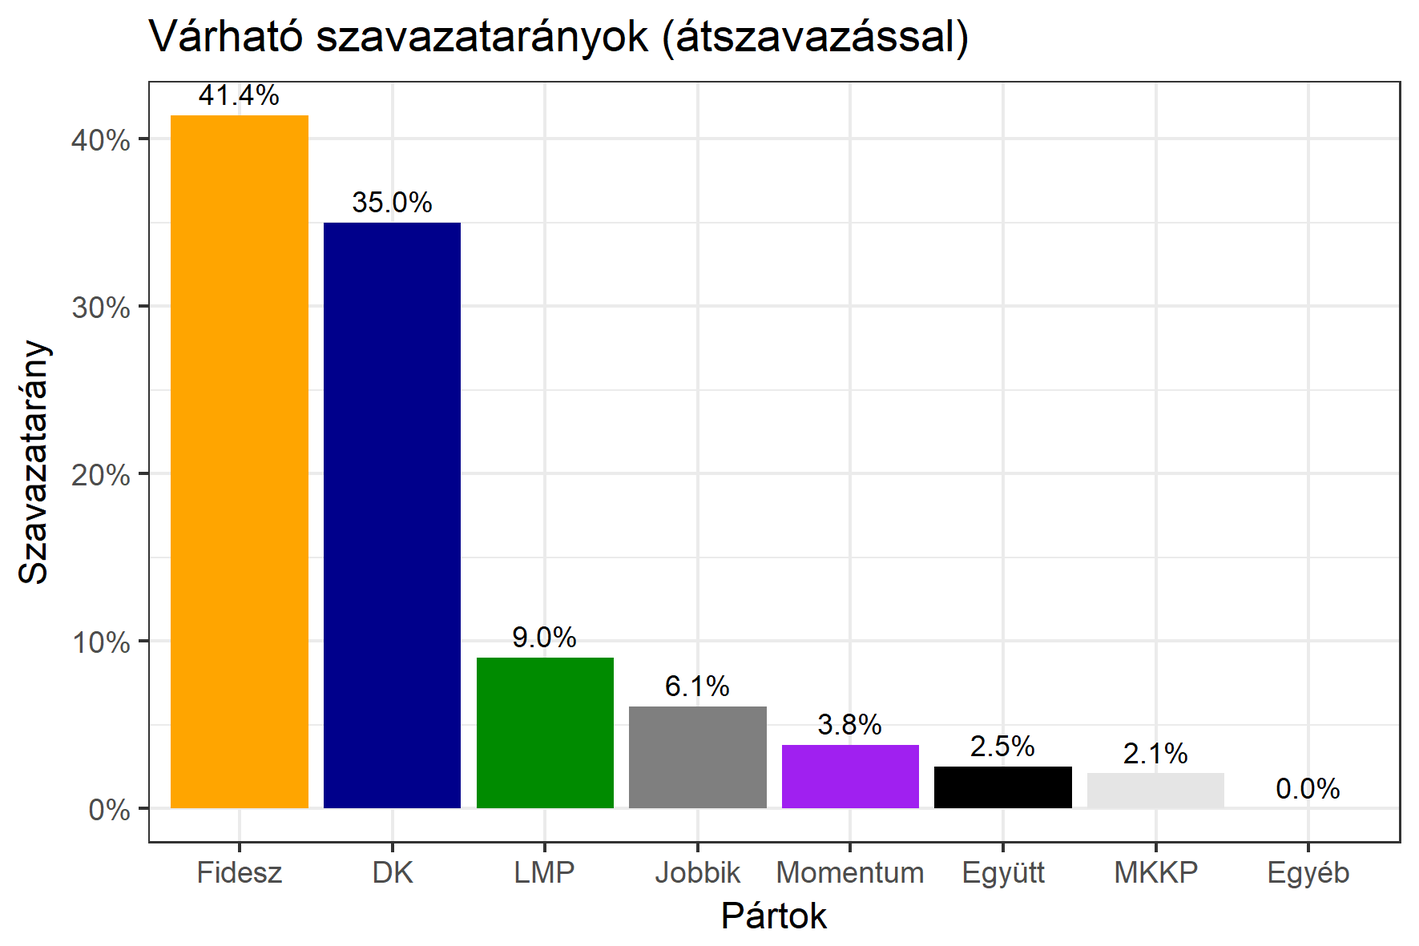
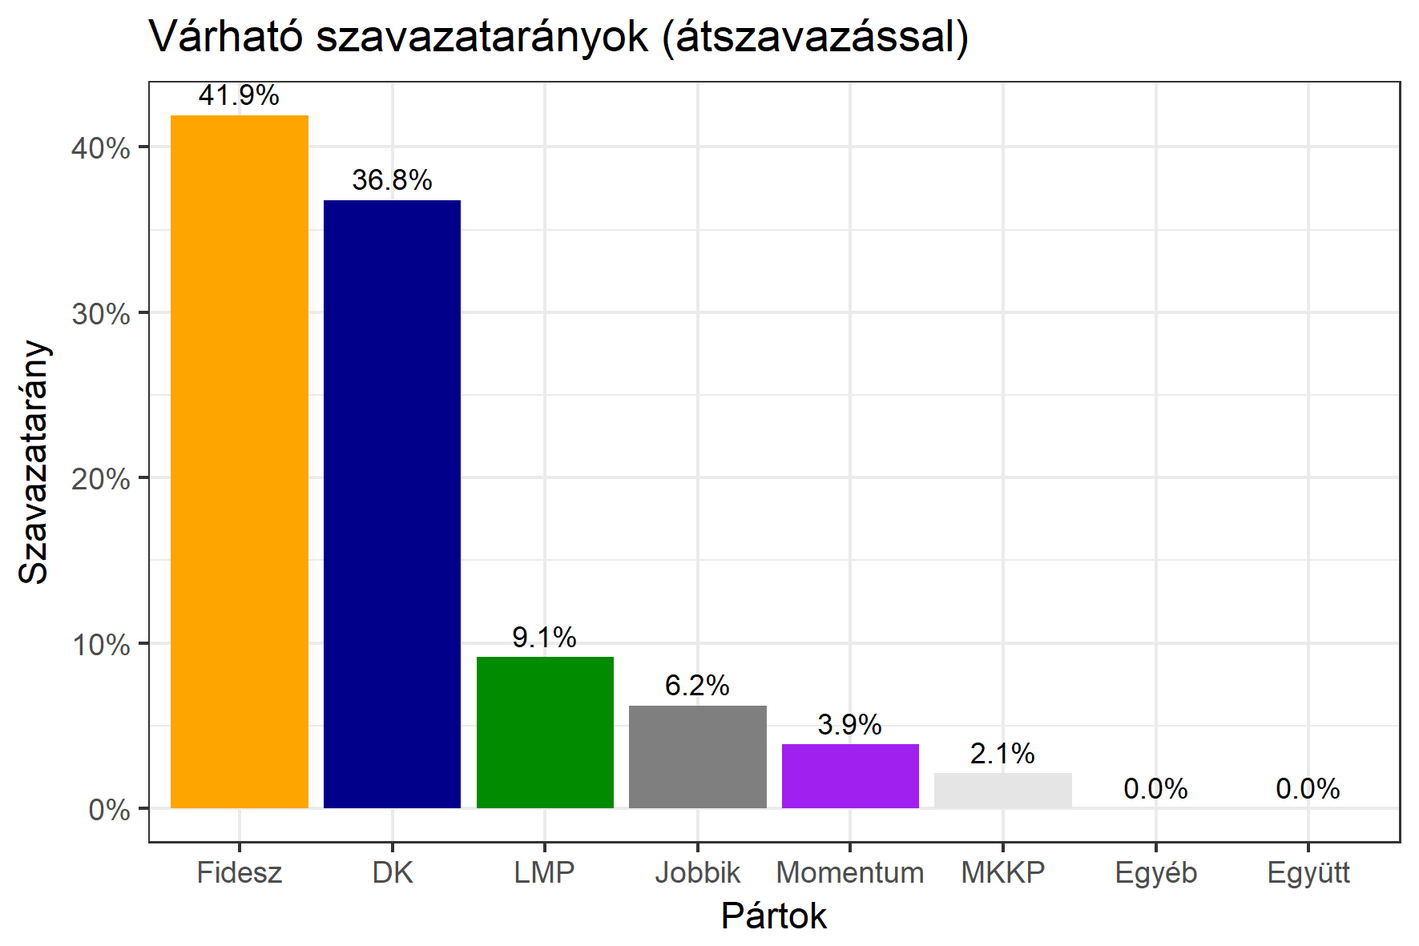
apr 04 visszalepesek

diff --git a/bp18.md b/bp18.md
@@ -27,28 +27,24 @@ permalink: /bp18
               <tbody>
              <tr>
                   <td>Németh Zsolt - Fidesz-KDNP <img src="images/fideszkdnp_logo.png" style="width:55px;height:30px;"></td>
-				   <td id="id_fidesz">36.4% &emsp; <span id="id_fidesz2">(37.5%)</span></td>
+				   <td id="id_fidesz">38.1% &emsp; <span id="id_fidesz2">(38.8%)</span></td>
 			</tr>
-			<tr><td>Dr. Staudt Gábor - Jobbik <img src="images/jobbik_logo.png" style="width:23px;height:30px;"></td> <td id="id_jobbik">12.1% &emsp; <span id="id_jobbik2">(9.4%)</span></td></tr>
+			<tr><td>Dr. Staudt Gábor - Jobbik <img src="images/jobbik_logo.png" style="width:23px;height:30px;"></td> <td id="id_jobbik">12.7% &emsp; <span id="id_jobbik2">(9.8%)</span></td></tr>
 <tr>
                   <td>Molnár Gyula - MSZP-Párbeszéd <img src="images/mszpparbeszed_logo.png" style="width:60px;height:30px;"></td>
-				   <td id="id_baloldal">25.2% &emsp; <span id="id_baloldal2">(35.5%)</span></td>
+				   <td id="id_baloldal">26.4% &emsp; <span id="id_baloldal2">(37.7%)</span></td>
 			</tr>
 			<tr>
                   <td>Pitz Dániel - LMP <img src="images/lmp_logo.png" style="width:52px;height:30px;"></td>
-				   <td id="id_lmp">10.1% &emsp; <span id="id_lmp2">(6.8%)</span></td>
+				   <td id="id_lmp">10.6% &emsp; <span id="id_lmp2">(7.0%)</span></td>
 			</tr>
 			<tr>
 				  <td>Orosz Anna - Momentum <img src="images/momentum_logo.png" style="width:44px;height:30px;"></td>
-				   <td id="id_momentum">7.2% &emsp; <span id="id_momentum2">(4.8%)</span></td>
-			</tr>
-<tr>
-<td><strong>VISSZALÉPETT AZ MSZP-PÁRBESZÉD JAVÁRA</strong> -  Együtt <img src="images/egyutt_logo2.png" style="width:71px;height:30px;"></td>
- <td id="id_egyutt">6.9% &emsp; <span id="id_egyutt2">(4.3%)</span></td>
-</tr>              
+				   <td id="id_momentum">7.6% &emsp; <span id="id_momentum2">(5.0%)</span></td>
+			</tr>              
 <tr>
 <td>Hotz Antal - MKKP <img src="images/mkkp_logo.png" style="width:49px;height:30px;"></td>
- <td id="id_mkkp">2.1% &emsp; <span id="id_mkkp2">(1.7%)</span></td>
+ <td id="id_mkkp">2.2% &emsp; <span id="id_mkkp2">(1.8%)</span></td>
 </tr>  
               </tbody>
             </table><h5>Várható győztes: <span id="gyoztes">Fidesz</span><span id="esely"></span><span></span></h5>

diff --git a/va1.md b/va1.md
@@ -26,30 +26,25 @@ permalink: /va1
               <tbody>
              <tr>
                   <td>dr. Hende Csaba - Fidesz-KDNP <img src="images/fideszkdnp_logo.png" style="width:55px;height:30px;"></td>
-				   <td id="id_fidesz">43.8% &emsp; <span id="id_fidesz2">(43.7%)</span></td>
+				   <td id="id_fidesz">42.6% &emsp; <span id="id_fidesz2">(43.7%)</span></td>
 			</tr>
-			<tr><td>Balassa Péter - Jobbik <img src="images/jobbik_logo.png" style="width:23px;height:30px;"></td> <td id="id_jobbik">15.2% &emsp; <span id="id_jobbik2">(15.4%)</span></td></tr>
+			<tr><td>Balassa Péter - Jobbik <img src="images/jobbik_logo.png" style="width:23px;height:30px;"></td> <td id="id_jobbik">16.0% &emsp; <span id="id_jobbik2">(15.4%)</span></td></tr>
 <tr>
                   <td>dr. Nemény András - MSZP-Párbeszéd <img src="images/mszpparbeszed_logo.png" style="width:60px;height:30px;"></td>
-				   <td id="id_baloldal">17.7% &emsp; <span id="id_baloldal2">(24.9%)</span></td>
+				   <td id="id_baloldal">22.0% &emsp; <span id="id_baloldal2">(29.2%)</span></td>
 			</tr>
 			<tr>
                   <td>Németh Ákos - LMP <img src="images/lmp_logo.png" style="width:52px;height:30px;"></td>
-				   <td id="id_lmp">9.5% &emsp; <span id="id_lmp2">(6.8%)</span></td>
+				   <td id="id_lmp">10.2% &emsp; <span id="id_lmp2">(6.8%)</span></td>
 			</tr>
 			<tr>
 				  <td>Falka Péter - Momentum <img src="images/momentum_logo.png" style="width:44px;height:30px;"></td>
-				   <td id="id_momentum">4.7% &emsp; <span id="id_momentum2">(3.0%)</span></td>
+				   <td id="id_momentum">4.6% &emsp; <span id="id_momentum2">(3.0%)</span></td>
 			</tr>
-          
 <tr>
 <td>Viszlayné Pavelkovits Petra - MKKP <img src="images/mkkp_logo.png" style="width:49px;height:30px;"></td>
  <td id="id_mkkp">2.2% &emsp; <span id="id_mkkp2">(1.8%)</span></td>
-</tr>
-<tr>
-				  <td><strong>VISSZALÉPETT az MSZP-PÁRBESZÉD JAVÁRA</strong> - független</td>
-				  <td id="egyeb2">4.3% &emsp; (4.3%)</td>
-			</tr>      
+</tr>    
               </tbody>
             </table><h5>Várható győztes: <span id="gyoztes">Fidesz</span><span id="esely"></span><span></span></h5>
 			

diff --git a/bp10.md b/bp10.md
@@ -27,25 +27,22 @@ permalink: /bp10
               <tbody>
              <tr>
                   <td>Menczer Erzsébet - Fidesz-KDNP <img src="images/fideszkdnp_logo.png" style="width:55px;height:30px;"></td>
-				   <td id="id_fidesz">28.8% &emsp; <span id="id_fidesz2">(30.1%)</span></td>
+				   <td id="id_fidesz">30.1% &emsp; <span id="id_fidesz2">(31.2%)</span></td>
 			</tr>
-			<tr><td>Zsiga-Kárpát Dániel - Jobbik <img src="images/jobbik_logo.png" style="width:23px;height:30px;"></td> <td id="id_jobbik">12.1% &emsp; <span id="id_jobbik2">(9.5%)</span></td></tr>
+			<tr><td>Zsiga-Kárpát Dániel - Jobbik <img src="images/jobbik_logo.png" style="width:23px;height:30px;"></td> <td id="id_jobbik">12.7% &emsp; <span id="id_jobbik2">(9.8%)</span></td></tr>
 <tr>
                   <td>Szabó Tímea - MSZP-Párbeszéd <img src="images/mszpparbeszed_logo.png" style="width:60px;height:30px;"></td>
-				   <td id="id_baloldal">26.7% &emsp; <span id="id_baloldal2">(39.7%)</span></td>
+				   <td id="id_baloldal">27.9% &emsp; <span id="id_baloldal2">(42.4%)</span></td>
 			</tr>
 			<tr>
                   <td>Dr. Ábrahám Júlia - LMP <img src="images/lmp_logo.png" style="width:52px;height:30px;"></td>
-				   <td id="id_lmp">15.5% &emsp; <span id="id_lmp2">(10.5%)</span></td>
+				   <td id="id_lmp">16.4% &emsp; <span id="id_lmp2">(10.9%)</span></td>
 			</tr>
 			<tr>
 				  <td>Donáth-Anna Júlia - Momentum <img src="images/momentum_logo.png" style="width:44px;height:30px;"></td>
-				   <td id="id_momentum">8.0% &emsp; <span id="id_momentum2">(5.5%)</span></td>
+				   <td id="id_momentum">8.2% &emsp; <span id="id_momentum2">(5.7%)</span></td>
 			</tr>
-<tr>
-<td><strong>VISSZALÉPETT AZ MSZP-PÁRBESZÉD JAVÁRA</strong> -  Együtt <img src="images/egyutt_logo2.png" style="width:71px;height:30px;"></td>
- <td id="id_egyutt">7.4% &emsp; <span id="id_egyutt2">(4.6%)</span></td>
-</tr>                
+               
               </tbody>
             </table><h5>Várható győztes: <span id="gyoztes">Szabó Tímea (MSZP-Párbeszéd)</span><span id="esely"></span><span></span></h5>
 			

diff --git a/bp2.md b/bp2.md
@@ -27,25 +27,21 @@ permalink: /bp2
               <tbody>
              <tr>
                   <td>dr. Simicskó István - Fidesz-KDNP <img src="images/fideszkdnp_logo.png" style="width:55px;height:30px;"></td>
-				   <td id="id_fidesz">40.6% &emsp; <span id="id_fidesz2">(41.4%)</span></td>
+				   <td id="id_fidesz">41.0% &emsp; <span id="id_fidesz2">(41.9%)</span></td>
 			</tr>
-			<tr><td>Dr. Bardócz-Tódor András - Jobbik <img src="images/jobbik_logo.png" style="width:23px;height:30px;"></td> <td id="id_jobbik">8.0% &emsp; <span id="id_jobbik2">(6.1%)</span></td></tr>
+			<tr><td>Dr. Bardócz-Tódor András - Jobbik <img src="images/jobbik_logo.png" style="width:23px;height:30px;"></td> <td id="id_jobbik">8.1% &emsp; <span id="id_jobbik2">(6.2%)</span></td></tr>
 <tr>
                   <td>Gy. Németh Erzsébet - DK <img src="images/dk_logo.png" style="width:34px;height:30px;"></td>
-				   <td id="id_baloldal">25.3% &emsp; <span id="id_baloldal2">(35.0%)</span></td>
+				   <td id="id_baloldal">25.5% &emsp; <span id="id_baloldal2">(36.8%)</span></td>
 			</tr>
 			<tr>
                   <td>Kreitler-Sas Máté - LMP <img src="images/lmp_logo.png" style="width:52px;height:30px;"></td>
-				   <td id="id_lmp">13.6% &emsp; <span id="id_lmp2">(9.0%)</span></td>
+				   <td id="id_lmp">13.8% &emsp; <span id="id_lmp2">(9.1%)</span></td>
 			</tr>
 			<tr>
 				  <td>Bedő Dávid - Momentum <img src="images/momentum_logo.png" style="width:44px;height:30px;"></td>
-				   <td id="id_momentum">5.7% &emsp; <span id="id_momentum2">(3.8%)</span></td>
-			</tr>
-<tr>
-<td><strong>VISSZALÉPETT A DK JAVÁRA</strong> -  Együtt <img src="images/egyutt_logo2.png" style="width:71px;height:30px;"></td>
- <td id="id_egyutt">4.2% &emsp; <span id="id_egyutt2">(2.5%)</span></td>
-</tr>                
+				   <td id="id_momentum">5.8% &emsp; <span id="id_momentum2">(3.9%)</span></td>
+			</tr>            
 <tr>
                   <td>Fischer Roland - MKKP <img src="images/mkkp_logo.png" style="width:49px;height:30px;"></td>
 				   <td id="id_mkkp">2.6% &emsp; <span id="id_mkkp2">(2.1%)</span></td>

diff --git a/szb1.md b/szb1.md
@@ -27,25 +27,21 @@ permalink: /szb1
               <tbody>
              <tr>
                   <td>dr. Szabó Tünde - Fidesz-KDNP <img src="images/fideszkdnp_logo.png" style="width:55px;height:30px;"></td>
-				   <td id="id_fidesz">34.2% &emsp; <span id="id_fidesz2">(34.6%)</span></td>
+				   <td id="id_fidesz">34.5% &emsp; <span id="id_fidesz2">(34.9%)</span></td>
 			</tr>
-			<tr><td>Lengyel Máté - Jobbik <img src="images/jobbik_logo.png" style="width:23px;height:30px;"></td> <td id="id_jobbik">24.8% &emsp; <span id="id_jobbik2">(24.9%)</span></td></tr>
+			<tr><td>Lengyel Máté - Jobbik <img src="images/jobbik_logo.png" style="width:23px;height:30px;"></td> <td id="id_jobbik">25.0% &emsp; <span id="id_jobbik2">(25.1%)</span></td></tr>
 <tr>
                   <td>Csabai Lászlóné - MSZP-Párbeszéd <img src="images/mszpparbeszed_logo.png" style="width:60px;height:30px;"></td>
-				   <td id="id_baloldal">27.0% &emsp; <span id="id_baloldal2">(31.1%)</span></td>
+				   <td id="id_baloldal">27.2% &emsp; <span id="id_baloldal2">(32.0%)</span></td>
 			</tr>
 			<tr>
                   <td>dr. Szoboszlay György Csaba - LMP <img src="images/lmp_logo.png" style="width:52px;height:30px;"></td>
-				   <td id="id_lmp">6.6% &emsp; <span id="id_lmp2">(4.3%)</span></td>
+				   <td id="id_lmp">6.7 &emsp; <span id="id_lmp2">(4.4%)</span></td>
 			</tr>
 			<tr>
 				  <td>Babosi György - Momentum <img src="images/momentum_logo.png" style="width:44px;height:30px;"></td>
-				   <td id="id_momentum">3.3% &emsp; <span id="id_momentum2">(2.1%)</span></td>
-			</tr>
-<tr>
-<td><strong>VISSZALÉPETT AZ MSZP-PÁRBESZÉD JAVÁRA</strong> - Együtt <img src="images/egyutt_logo2.png" style="width:71px;height:30px;"></td>
- <td id="id_egyutt">2.5% &emsp; <span id="id_egyutt2">(1.5%)</span></td>
-</tr>             
+				   <td id="id_momentum">3.3% &emsp; <span id="id_momentum2">(2.2%)</span></td>
+			</tr>             
 <tr>
 <td>Vajas Károly - MKKP <img src="images/mkkp_logo.png" style="width:49px;height:30px;"></td>
  <td id="id_mkkp">1.7% &emsp; <span id="id_mkkp2">(1.4%)</span></td>

diff --git a/bp3.md b/bp3.md
@@ -27,25 +27,21 @@ permalink: /bp3
               <tbody>
              <tr>
                   <td>dr. Gulyás Gergely - Fidesz-KDNP <img src="images/fideszkdnp_logo.png" style="width:55px;height:30px;"></td>
-				   <td id="id_fidesz">39.0% &emsp; <span id="id_fidesz2">(39.5%)</span></td>
+				   <td id="id_fidesz">39.4% &emsp; <span id="id_fidesz2">(40.1%)</span></td>
 			</tr>
-			<tr><td>Gyöngyösi Márton - Jobbik <img src="images/jobbik_logo.png" style="width:23px;height:30px;"></td> <td id="id_jobbik">8.4% &emsp; <span id="id_jobbik2">(6.3%)</span></td></tr>
+			<tr><td>Gyöngyösi Márton - Jobbik <img src="images/jobbik_logo.png" style="width:23px;height:30px;"></td> <td id="id_jobbik">8.4% &emsp; <span id="id_jobbik2">(6.4%)</span></td></tr>
 <tr>
                   <td>Bauer Tamás - DK <img src="images/dk_logo.png" style="width:34px;height:30px;"></td>
-				   <td id="id_baloldal">22.2% &emsp; <span id="id_baloldal2">(29.5%)</span></td>
+				   <td id="id_baloldal">22.4% &emsp; <span id="id_baloldal2">(31.6%)</span></td>
 			</tr>
 			<tr>
                   <td>Hajdu Mária - LMP <img src="images/lmp_logo.png" style="width:52px;height:30px;"></td>
-				   <td id="id_lmp">14.7% &emsp; <span id="id_lmp2">(12.2%)</span></td>
+				   <td id="id_lmp">14.8% &emsp; <span id="id_lmp2">(12.3%)</span></td>
 			</tr>
 			<tr>
 				  <td>Kádár Barnabás Áron - Momentum <img src="images/momentum_logo.png" style="width:44px;height:30px;"></td>
-				   <td id="id_momentum">6.1% &emsp; <span id="id_momentum2">(5.0%)</span></td>
-			</tr>
-<tr>
-<td><strong>VISSZALÉPETT A DK JAVÁRA</strong> -  Együtt <img src="images/egyutt_logo2.png" style="width:71px;height:30px;"></td>
- <td id="id_egyutt">4.3% &emsp; <span id="id_egyutt2">(3.1%)</span></td>
-</tr>                
+				   <td id="id_momentum">6.1% &emsp; <span id="id_momentum2">(5.1%)</span></td>
+			</tr>               
 <tr>
                   <td>Kovács Gergely - MKKP <img src="images/mkkp_logo.png" style="width:49px;height:30px;"></td>
 				   <td id="id_mkkp">5.4% &emsp; <span id="id_mkkp2">(4.4%)</span></td>

diff --git a/hb1.md b/hb1.md
@@ -27,25 +27,21 @@ permalink: /hb1
               <tbody>
              <tr>
                   <td>Kósa Lajos - Fidesz-KDNP <img src="images/fideszkdnp_logo.png" style="width:55px;height:30px;"></td>
-				   <td id="id_fidesz">44.0% &emsp; <span id="id_fidesz2">(45.8%)</span></td>
+				   <td id="id_fidesz">45.3% &emsp; <span id="id_fidesz2">(46.3%)</span></td>
 			</tr>
-			<tr><td>Herpergel Róbert - Jobbik <img src="images/jobbik_logo.png" style="width:23px;height:30px;"></td> <td id="id_jobbik">18.0% &emsp; <span id="id_jobbik2">(18.6%)</span></td></tr>
+			<tr><td>Herpergel Róbert - Jobbik <img src="images/jobbik_logo.png" style="width:23px;height:30px;"></td> <td id="id_jobbik">18.6% &emsp; <span id="id_jobbik2">(18.8%)</span></td></tr>
 <tr>
                   <td>Gulyásné dr. Gurmai Zita - MSZP-Párbeszéd <img src="images/mszpparbeszed_logo.png" style="width:60px;height:30px;"></td>
-				   <td id="id_baloldal">21.0% &emsp; <span id="id_baloldal2">(25.0%)</span></td>
+				   <td id="id_baloldal">19.7% &emsp; <span id="id_baloldal2">(26.1%)</span></td>
 			</tr>
 			<tr>
                   <td>Murguly Mátyás - LMP <img src="images/lmp_logo.png" style="width:52px;height:30px;"></td>
-				   <td id="id_lmp">8.8% &emsp; <span id="id_lmp2">(6.0%)</span></td>
+				   <td id="id_lmp">9.1% &emsp; <span id="id_lmp2">(6.0%)</span></td>
 			</tr>
 			<tr>
 				  <td>Horváth Zoltán - Momentum <img src="images/momentum_logo.png" style="width:44px;height:30px;"></td>
-				   <td id="id_momentum">4.1% &emsp; <span id="id_momentum2">(2.7%)</span></td>
-			</tr>
-<tr>
-<td><strong>VISSZALÉPETT AZ MSZP-PÁRBESZÉD JAVÁRA</strong> -  Együtt <img src="images/egyutt_logo2.png" style="width:71px;height:30px;"></td>
- <td id="id_egyutt">3.0% &emsp; <span id="id_egyutt2">(1.9%)</span></td>
-</tr>                
+				   <td id="id_momentum">4.2% &emsp; <span id="id_momentum2">(2.8%)</span></td>
+			</tr>             
               </tbody>
             </table><h5>Várható győztes: <span id="gyoztes">Fidesz</span><span id="esely"></span><span></span></h5>
 			

diff --git a/bp4.md b/bp4.md
@@ -27,25 +27,21 @@ permalink: /bp4
               <tbody>
              <tr>
                   <td>Varga Mihály - Fidesz-KDNP <img src="images/fideszkdnp_logo.png" style="width:55px;height:30px;"></td>
-				   <td id="id_fidesz">39.2% &emsp; <span id="id_fidesz2">(40.0%)</span></td>
+				   <td id="id_fidesz">39.6% &emsp; <span id="id_fidesz2">(40.0%)</span></td>
 			</tr>
-			<tr><td>Kovács Tamás - Jobbik <img src="images/jobbik_logo.png" style="width:23px;height:30px;"></td> <td id="id_jobbik">6.2% &emsp; <span id="id_jobbik2">(4.8%)</span></td></tr>
+			<tr><td>Kovács Tamás - Jobbik <img src="images/jobbik_logo.png" style="width:23px;height:30px;"></td> <td id="id_jobbik">6.3% &emsp; <span id="id_jobbik2">(4.8%)</span></td></tr>
 <tr>
                   <td>Niedermüller Péter - DK <img src="images/dk_logo.png" style="width:34px;height:30px;"></td>
-				   <td id="id_baloldal">24.8% &emsp; <span id="id_baloldal2">(21.3%)</span></td>
+				   <td id="id_baloldal">25.0% &emsp; <span id="id_baloldal2">(22.1%)</span></td>
 			</tr>
 			<tr>
                   <td>Ungár Péter - LMP <img src="images/lmp_logo.png" style="width:52px;height:30px;"></td>
-				   <td id="id_lmp">15.4% &emsp; <span id="id_lmp2">(24.2%)</span></td>
+				   <td id="id_lmp">15.5% &emsp; <span id="id_lmp2">(25.1%)</span></td>
 			</tr>
 			<tr>
 				  <td>Benedek Márton - Momentum <img src="images/momentum_logo.png" style="width:44px;height:30px;"></td>
-				   <td id="id_momentum">8.1% &emsp; <span id="id_momentum2">(5.4%)</span></td>
-			</tr>
-<tr>
-<td><strong>VISSZALÉPETT A DK JAVÁRA</strong> -  Együtt <img src="images/egyutt_logo2.png" style="width:71px;height:30px;"></td>
- <td id="id_egyutt">3.9% &emsp; <span id="id_egyutt2">(2.4%)</span></td>
-</tr>    
+				   <td id="id_momentum">8.2% &emsp; <span id="id_momentum2">(5.4%)</span></td>
+			</tr>   
 <tr>
                   <td>Juhász Veronika - MKKP <img src="images/mkkp_logo.png" style="width:49px;height:30px;"></td>
 				   <td id="id_mkkp">2.4% &emsp; <span id="id_mkkp2">(2.0%)</span></td>

diff --git a/bp16.md b/bp16.md
@@ -27,25 +27,21 @@ permalink: /bp16
               <tbody>
              <tr>
                   <td>Földesi Gyula - Fidesz-KDNP <img src="images/fideszkdnp_logo.png" style="width:55px;height:30px;"></td>
-				   <td id="id_fidesz">34.8% &emsp; <span id="id_fidesz2">(35.6%)</span></td>
+				   <td id="id_fidesz">35.1% &emsp; <span id="id_fidesz2">(35.6%)</span></td>
 			</tr>
-			<tr><td>Bencsik János - Jobbik <img src="images/jobbik_logo.png" style="width:23px;height:30px;"></td> <td id="id_jobbik">16.7% &emsp; <span id="id_jobbik2">(12.8%)</span></td></tr>
+			<tr><td>Bencsik János - Jobbik <img src="images/jobbik_logo.png" style="width:23px;height:30px;"></td> <td id="id_jobbik">16.9% &emsp; <span id="id_jobbik2">(12.8%)</span></td></tr>
 <tr>
                   <td>dr. Hiller István - MSZP-Párbeszéd <img src="images/mszpparbeszed_logo.png" style="width:60px;height:30px;"></td>
-				   <td id="id_baloldal">28.7% &emsp; <span id="id_baloldal2">(39.4%)</span></td>
+				   <td id="id_baloldal">29.0% &emsp; <span id="id_baloldal2">(39.4%)</span></td>
 			</tr>
 			<tr>
                   <td>Ferenczi István - LMP <img src="images/lmp_logo.png" style="width:52px;height:30px;"></td>
-				   <td id="id_lmp">10.5% &emsp; <span id="id_lmp2">(7.0%)</span></td>
+				   <td id="id_lmp">10.6% &emsp; <span id="id_lmp2">(7.0%)</span></td>
 			</tr>
 			<tr>
 				  <td>Teveli Dalma - Momentum <img src="images/momentum_logo.png" style="width:44px;height:30px;"></td>
 				   <td id="id_momentum">4.7% &emsp; <span id="id_momentum2">(3.1%)</span></td>
-			</tr>
-<tr>
-<td><strong>VISSZALÉPETT AZ MSZP-PÁRBESZÉD JAVÁRA</strong> -  Együtt <img src="images/egyutt_logo2.png" style="width:71px;height:30px;"></td>
- <td id="id_egyutt">3.4% &emsp; <span id="id_egyutt2">(2.1%)</span></td>
-</tr>                
+			</tr>               
               </tbody>
             </table><h5>Várható győztes: <span id="gyoztes">dr. Hiller István (MSZP-Párbeszéd)</span><span id="esely"></span><span></span></h5>
 			

diff --git a/gy1.md b/gy1.md
@@ -26,25 +26,21 @@ permalink: /gy1
               <tbody>
              <tr>
                   <td>Simon Róbert Balázs - Fidesz-KDNP <img src="images/fideszkdnp_logo.png" style="width:55px;height:30px;"></td>
-				   <td id="id_fidesz">45.5% &emsp; <span id="id_fidesz2">(46.5%)</span></td>
+				   <td id="id_fidesz">46.0% &emsp; <span id="id_fidesz2">(47.0%)</span></td>
 			</tr>
-			<tr><td>Fodor Roland - Jobbik <img src="images/jobbik_logo.png" style="width:23px;height:30px;"></td> <td id="id_jobbik">15.3% &emsp; <span id="id_jobbik2">(14.7%)</span></td></tr>
+			<tr><td>Fodor Roland - Jobbik <img src="images/jobbik_logo.png" style="width:23px;height:30px;"></td> <td id="id_jobbik">15.4% &emsp; <span id="id_jobbik2">(14.8%)</span></td></tr>
 <tr>
                   <td>Glázer Tímea - DK <img src="images/dk_logo.png" style="width:34px;height:30px;"></td>
-				   <td id="id_baloldal">21.3% &emsp; <span id="id_baloldal2">(27.8%)</span></td>
+				   <td id="id_baloldal">21.5% &emsp; <span id="id_baloldal2">(29.0%)</span></td>
 			</tr>
 			<tr>
                   <td>Jenei Ferenc - LMP <img src="images/lmp_logo.png" style="width:52px;height:30px;"></td>
-				   <td id="id_lmp">9.3% &emsp; <span id="id_lmp2">(6.2%)</span></td>
+				   <td id="id_lmp">9.4% &emsp; <span id="id_lmp2">(6.3%)</span></td>
 			</tr>
 			<tr>
 				  <td>Molnár József - Momentum <img src="images/momentum_logo.png" style="width:44px;height:30px;"></td>
-				   <td id="id_momentum">4.3% &emsp; <span id="id_momentum2">(2.8%)</span></td>
-			</tr>
-<tr>
-<td><strong>VISSZALÉPETT A DK JAVÁRA</strong> -  Együtt <img src="images/egyutt_logo2.png" style="width:71px;height:30px;"></td>
- <td id="id_egyutt">3.2% &emsp; <span id="id_egyutt2">(1.9%)</span></td>
-</tr>            
+				   <td id="id_momentum">4.3% &emsp; <span id="id_momentum2">(2.9%)</span></td>
+			</tr>          
     
               </tbody>
             </table><h5>Várható győztes: <span id="gyoztes">Fidesz</span><span id="esely"></span><span></span></h5>

diff --git a/bp13.md b/bp13.md
@@ -27,24 +27,20 @@ permalink: /bp13
               <tbody>
              <tr>
                   <td>Szatmáry Kristóf - Fidesz-KDNP <img src="images/fideszkdnp_logo.png" style="width:55px;height:30px;"></td>
-				   <td id="id_fidesz">38.7% &emsp; <span id="id_fidesz2">(40.2%)</span></td>
+				   <td id="id_fidesz">38.7% &emsp; <span id="id_fidesz2">(43.4%)</span></td>
 			</tr>
-			<tr><td>Tokody Marcell Gergely - Jobbik <img src="images/jobbik_logo.png" style="width:23px;height:30px;"></td> <td id="id_jobbik">11.6% &emsp; <span id="id_jobbik2">(9.1%)</span></td></tr>
-<tr>
-                  <td><strong>VISSZALÉPETT AZ EGYÜTT JAVÁRA</strong> - DK <img src="images/dk_logo.png" style="width:34px;height:30px;"></td>
-				   <td id="id_baloldal">27.0% &emsp; <span id="id_baloldal2">(18.2%)</span></td>
-			</tr>
+			<tr><td>Tokody Marcell Gergely - Jobbik <img src="images/jobbik_logo.png" style="width:23px;height:30px;"></td> <td id="id_jobbik">11.6% &emsp; <span id="id_jobbik2">(9.8%)</span></td></tr>
 			<tr>
                   <td>Mizsei László - LMP <img src="images/lmp_logo.png" style="width:52px;height:30px;"></td>
-				   <td id="id_lmp">10.1% &emsp; <span id="id_lmp2">(6.8%)</span></td>
+				   <td id="id_lmp">10.1% &emsp; <span id="id_lmp2">(7.3%)</span></td>
 			</tr>
 			<tr>
 				  <td>Hollai Gábor - Momentum <img src="images/momentum_logo.png" style="width:44px;height:30px;"></td>
-				   <td id="id_momentum">4.5% &emsp; <span id="id_momentum2">(3.0%)</span></td>
+				   <td id="id_momentum">4.5% &emsp; <span id="id_momentum2">(3.2%)</span></td>
 			</tr>
 <tr>
 <td>Vajda Zoltán -  Együtt <img src="images/egyutt_logo2.png" style="width:71px;height:30px;"></td>
- <td id="id_egyutt">7.0% &emsp; <span id="id_egyutt2">(22.7%)</span></td>
+ <td id="id_egyutt">7.0% &emsp; <span id="id_egyutt2">(36.3%)</span></td>
 </tr>                
               </tbody>
             </table><h5>Várható győztes: <span id="gyoztes">Fidesz</span><span id="esely"></span><span></span></h5>

diff --git a/bp17.md b/bp17.md
@@ -27,24 +27,16 @@ permalink: /bp17
               <tbody>
              <tr>
                   <td>Németh Szilárd István - Fidesz-KDNP <img src="images/fideszkdnp_logo.png" style="width:55px;height:30px;"></td>
-				   <td id="id_fidesz">31.0% &emsp; <span id="id_fidesz2">(32.4%)</span></td>
+				   <td id="id_fidesz">31.0% &emsp; <span id="id_fidesz2">(36.0%)</span></td>
 			</tr>
-			<tr><td>Bereczki Miklós - Jobbik <img src="images/jobbik_logo.png" style="width:23px;height:30px;"></td> <td id="id_jobbik">17.1% &emsp; <span id="id_jobbik2">(13.4%)</span></td></tr>
-<tr>
-                  <td><strong>VISSZALÉPETT AZ EGYÜTT JAVÁRA</strong> - MSZP-Párbeszéd <img src="images/mszpparbeszed_logo.png" style="width:60px;height:30px;"></td>
-				   <td id="id_baloldal">24.1% &emsp; <span id="id_baloldal2">(17.8%)</span></td>
-			</tr>
-			<tr>
-                  <td><strong>VISSZALÉPETT AZ EGYÜTT JAVÁRA</strong> - LMP <img src="images/lmp_logo.png" style="width:52px;height:30px;"></td>
-				   <td id="id_lmp">9.2% &emsp; <span id="id_lmp2">(6.2%)</span></td>
-			</tr>
+			<tr><td>Bereczki Miklós - Jobbik <img src="images/jobbik_logo.png" style="width:23px;height:30px;"></td> <td id="id_jobbik">17.1% &emsp; <span id="id_jobbik2">(14.1%)</span></td></tr>
 <tr>
 <td>dr. Szabó Szabolcs -  Együtt <img src="images/egyutt_logo2.png" style="width:71px;height:30px;"></td>
- <td id="id_egyutt">10.0% &emsp; <span id="id_egyutt2">(23.9%)</span></td>
+ <td id="id_egyutt">10.0% &emsp; <span id="id_egyutt2">(42.3%)</span></td>
 </tr>            
 <tr>
 <td>Soltész Szilvia Nikolett - MKKP <img src="images/mkkp_logo.png" style="width:49px;height:30px;"></td>
- <td id="id_mkkp">1.9% &emsp; <span id="id_mkkp2">(1.6%)</span></td>
+ <td id="id_mkkp">1.9% &emsp; <span id="id_mkkp2">(1.7%)</span></td> 
 </tr>    
               </tbody>
             </table><h5>Várható győztes: <span id="gyoztes">Fidesz</span><span id="esely"></span><span></span></h5>
